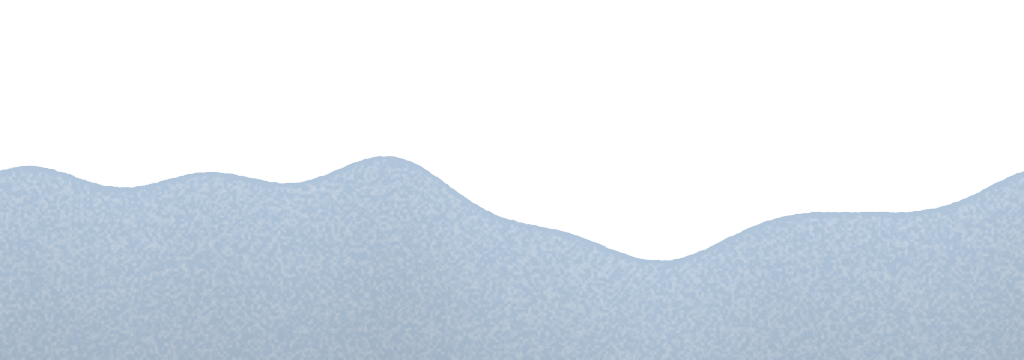
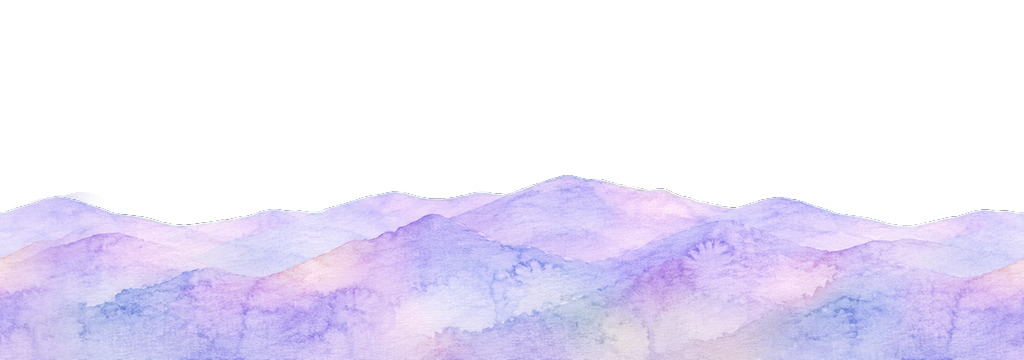
Art : 15 aquarelles peintes avec Codex (titre, intro, 2 fins, 4 ciels, 7 plans de parallaxe) (#3)
* Art : prompts Codex pour Kevencre (titre, intro, 2 fins, 4 ciels, 7 fonds en parallaxe)

Claude-Session: https://claude.ai/code/session_01QVrBbsfBKTT9dMwLx2aVGe

* Art : 15 visuels peints avec Codex (titre, intro, 2 fins, 4 ciels, 7 plans de parallaxe)

finir.py : détourage sans liseré rose (repris de Kevsmos) et détourage avant le
raccord des bords, pour que le fondu ne mélange pas le magenta au décor.

* Art : écrans et ciels Codex compressés à l'export, paint.py ne les écrase plus

Claude-Session: https://claude.ai/code/session_01QVrBbsfBKTT9dMwLx2aVGe

* Art : détourage final, sans liseré rose ni contour sombre (images détourées uniquement)

---------

diff --git a/tools/art/finir.py b/tools/art/finir.py
@@ -1,0 +1,129 @@
+#!/usr/bin/env python3
+"""Finit les images brutes de Codex.
+Usage : python finir.py PROMPTS_JSON DOSSIER_BRUT DOSSIER_SORTIE [fichier ...]
+- recadre (centre, cover) puis redimensionne à la taille exacte demandée ;
+- si detourer : fond magenta #FF00FF -> transparent (tolérance + bord adouci + suppression du halo rose) ;
+- si raccord: N (dans le JSON) ou RACCORD="nom:N" (environnement), fond les N px des bords gauche/droite (panoramas en boucle) ;
+- enregistre <fichier>.webp qualité 85, ou au chemin « sortie » du JSON (.png accepté, sous-dossiers créés).
+"""
+import json, sys
+from pathlib import Path
+import numpy as np
+from PIL import Image, ImageDraw, ImageFilter
+
+import os
+# RACCORD="ciel_a:128,ciel_b:128" : fond les bords gauche/droite de ces images
+RACCORD = dict((k, int(v)) for k, v in (e.split(":") for e in os.environ.get("RACCORD", "").split(",") if e))
+TOL_DUR, TOL_DOUX = 45.0, 95.0  # distance RGB au magenta : <dur = transparent, >doux = opaque
+
+def cover(img, w, h):
+    """Recadre sans déformer. Panoramas (largeur >= 3x hauteur) : on garde le bas (ligne d'horizon)."""
+    sw, sh = img.size
+    r = max(w / sw, h / sh)
+    img = img.resize((round(sw * r), round(sh * r)), Image.LANCZOS)
+    l = (img.width - w) // 2
+    t = img.height - h if w >= 3 * h else (img.height - h) // 2
+    return img.crop((l, t, l + w, t + h))
+
+def detourer(img):
+    a = np.asarray(img.convert("RGB")).astype(np.float32)
+    r, g, b = a[..., 0], a[..., 1], a[..., 2]
+    # distance au magenta pur
+    d = np.sqrt((255 - r) ** 2 + g ** 2 + (255 - b) ** 2)
+    alpha = np.clip((d - TOL_DUR) / (TOL_DOUX - TOL_DUR), 0, 1)
+    # ne détoure que le magenta relié au bord : un sujet rose/magenta au centre reste opaque
+    proche = Image.fromarray(((d < TOL_DUR) * 255).astype(np.uint8))
+    hh, ww = d.shape
+    for x, y in [(x, 0) for x in range(0, ww, 8)] + [(x, hh - 1) for x in range(0, ww, 8)] + \
+                [(0, y) for y in range(0, hh, 8)] + [(ww - 1, y) for y in range(0, hh, 8)]:
+        if proche.getpixel((x, y)) == 255: ImageDraw.floodfill(proche, (x, y), 128)
+    # + les poches de magenta quasi pur enfermées dans le sujet (entre deux pièces, sous un bras…)
+    proche = Image.fromarray(np.where((np.asarray(proche) == 128) | (d < 25), 128, 0).astype(np.uint8))
+    fond = np.asarray(proche.point(lambda v: 255 if v == 128 else 0).filter(ImageFilter.MaxFilter(3))) > 0
+    alpha = np.where(fond, alpha, 1.0)
+    # adoucissement léger du bord
+    am = Image.fromarray((alpha * 255).astype(np.uint8)).filter(ImageFilter.GaussianBlur(0.8))
+    alpha = np.asarray(am).astype(np.float32) / 255
+    alpha[d < TOL_DUR * 0.8] = 0
+    # dé-contamination : retire la part de magenta mélangée dans les pixels de bord
+    mag = np.array([255, 0, 255], np.float32)
+    bord = (alpha > 0) & (alpha < 1)
+    with np.errstate(divide="ignore", invalid="ignore"):
+        rec = (a - (1 - alpha[..., None]) * mag) / np.maximum(alpha[..., None], 1e-3)
+    a = np.where(bord[..., None], np.clip(rec, 0, 255), a)
+    # anti-halo : près du fond (2 px), retire la teinte magenta résiduelle (r et b au-dessus de g)
+    pres = np.asarray(Image.fromarray((fond * 255).astype(np.uint8)).filter(ImageFilter.MaxFilter(5))) > 0
+    zone = pres & (alpha > 0)
+    spill = np.minimum(a[..., 0], a[..., 2]) - a[..., 1]
+    lim = zone & (spill > 10)
+    a[..., 0] = np.where(lim, a[..., 0] - (spill - 10), a[..., 0])
+    a[..., 2] = np.where(lim, a[..., 2] - (spill - 10), a[..., 2])
+    # bouche les petits trous (pixels du sujet presque magenta) : fermeture 3x3 du masque,
+    # et les pixels rebouchés prennent la couleur médiane de leurs voisins opaques
+    m = Image.fromarray((alpha * 255).astype(np.uint8))
+    ferme = np.asarray(m.filter(ImageFilter.MaxFilter(3)).filter(ImageFilter.MinFilter(3))).astype(np.float32) / 255
+    trou = ferme > alpha + 0.5
+    if trou.any():
+        opaque = np.where((alpha > 0.9)[..., None], a, 0).astype(np.uint8)
+        med = np.asarray(Image.fromarray(opaque).filter(ImageFilter.MaxFilter(3))).astype(np.float32)
+        a[trou] = med[trou]
+        alpha = np.maximum(alpha, ferme)
+    # dernière passe : à moins de 3 px de la transparence, un pixel resté presque magenta est du fond
+    d2 = np.sqrt((255 - a[..., 0]) ** 2 + a[..., 1] ** 2 + (255 - a[..., 2]) ** 2)
+    transp = Image.fromarray(((alpha < 0.5) * 255).astype(np.uint8)).filter(ImageFilter.MaxFilter(7))
+    alpha = np.where((np.asarray(transp) > 0) & (d2 < 80) & (np.abs(a[..., 0] - a[..., 2]) < 30), 0.0, alpha)
+    # puis, sur 2 px de bord, les mélanges sujet + magenta (r ≈ b, tous deux nettement au-dessus de g)
+    # deviennent transparents : les griser laisserait un contour sombre sur fond clair
+    bande = (np.asarray(Image.fromarray(((alpha < 0.5) * 255).astype(np.uint8)).filter(ImageFilter.MaxFilter(5))) > 0) & (alpha >= 0.5)
+    sp = np.minimum(a[..., 0], a[..., 2]) - a[..., 1]
+    mel = bande & (np.abs(a[..., 0] - a[..., 2]) < 30) & (sp > 25)
+    alpha = np.where(mel, 0.0, alpha)
+    # sous les pixels transparents, remplace le magenta par la couleur du sujet voisin :
+    # sinon le sous-échantillonnage des couleurs du WebP fait baver un liseré rose sur le bord
+    poids = (alpha > 0.5).astype(np.float32)
+    def flou(x, r):  # flou boîte séparable (numpy), rayon r
+        for ax in (0, 1):
+            p_ = np.pad(x, [(r + 1, r) if i == ax else (0, 0) for i in range(2)], mode="edge")
+            c = np.cumsum(p_, axis=ax)
+            x = (np.take(c, range(2 * r + 1, c.shape[ax]), axis=ax) - np.take(c, range(0, c.shape[ax] - 2 * r - 1), axis=ax)) / (2 * r + 1)
+        return x
+    for r in (2, 6, 18):
+        wsum = flou(poids, r)
+        if (wsum > 1e-4).any():
+            for c in range(3):
+                col = flou(a[..., c] * poids, r) / np.maximum(wsum, 1e-4)
+                a[..., c] = np.where((alpha <= 0.5) & (wsum > 1e-4) & (poids == 0), col, a[..., c])
+            poids = np.maximum(poids, (wsum > 1e-4).astype(np.float32) * (alpha <= 0.5))
+    out = np.dstack([np.clip(a, 0, 255), alpha * 255]).astype(np.uint8)
+    return Image.fromarray(out)
+
+def raccorder(img, bande):
+    """Rend une image raccordable gauche/droite : les `bande` px de droite sont fondus dans
+    ceux de gauche puis retirés ; l'image est ensuite ramenée à sa largeur d'origine."""
+    a = np.asarray(img).astype(np.float32); h, w = a.shape[:2]
+    t = np.linspace(0, 1, bande)[None, :, None]
+    out = a[:, : w - bande].copy()
+    out[:, :bande] = a[:, w - bande:] * (1 - t) + a[:, :bande] * t
+    return Image.fromarray(np.clip(out, 0, 255).astype(np.uint8)).resize((w, h), Image.LANCZOS)
+
+def main():
+    js, brut, sortie, *noms = sys.argv[1:]
+    d = json.load(open(js)); Path(sortie).mkdir(parents=True, exist_ok=True)
+    for im in d["images"]:
+        if noms and im["fichier"] not in noms: continue
+        src = Path(brut) / f"{im['fichier']}.png"
+        if not src.exists(): print("absent", src); continue
+        w, h = map(int, im["taille"].split("x"))
+        img = cover(Image.open(src).convert("RGB"), w, h)
+        # détourer d'abord : fondre les bords avant mélangerait le magenta au sujet
+        if im.get("detourer"): img = detourer(img)
+        bande = im.get("raccord") or RACCORD.get(im["fichier"])
+        if bande: img = raccorder(img, int(bande))
+        dst = Path(sortie) / im.get("sortie", f"{im['fichier']}.webp")
+        dst.parent.mkdir(parents=True, exist_ok=True)
+        if dst.suffix == ".png": img.save(dst, "PNG", optimize=True)
+        else: img.save(dst, "WEBP", quality=85, method=6)
+        print(f"{dst.name} {w}x{h} {dst.stat().st_size // 1024} Ko")
+
+if __name__ == "__main__":
+    main()

diff --git a/tools/paint.py b/tools/paint.py
@@ -10,6 +10,21 @@ S = 24            # pixels par case dans les peintures (affichées x2 dans le je
 rng = np.random.default_rng(11)
 
 
+# Images peintes avec Codex (tools/art/prompts.json, clé « sortie ») : on ne les écrase pas.
+def _codex():
+    try:
+        with open(os.path.join(os.path.dirname(os.path.abspath(__file__)), 'art', 'prompts.json')) as f:
+            return {os.path.normpath(os.path.join(ART, i['sortie'])) for i in json.load(f)['images'] if 'sortie' in i}
+    except (OSError, ValueError, KeyError):
+        return set()
+CODEX = _codex()
+
+
+def keep(path):
+    """Vrai si ce fichier est un visuel Codex déjà présent (à ne pas repeindre)."""
+    return os.path.normpath(path) in CODEX and os.path.exists(path)
+
+
 # ------------------------------------------------------------------ outils
 def box(a, r, axis):
     if r < 1:
@@ -468,6 +483,8 @@ HAZE = [None]
 def save_layer(canvas, alpha, path, haze=0.0):
     if haze > 0 and HAZE[0] is not None:
         canvas = canvas * (1 - haze) + HAZE[0][None, None, :] * haze
+    if keep(path):
+        return
     to_img(canvas, alpha).save(path, optimize=True)
 
 
@@ -673,7 +690,7 @@ def illustrations():
         line = [(940 + i * 9, y0 - i * 7 + math.sin(i * 0.5) * 6) for i in range(40)]
         d.line(line, fill=c + (190,), width=7, joint='curve')
     im = im.filter(ImageFilter.GaussianBlur(0.6))
-    im.save(os.path.join(ART, 'titre.png'), optimize=True)
+    if not keep(os.path.join(ART, 'titre.png')): im.save(os.path.join(ART, 'titre.png'), optimize=True)
     # intro : l'atelier du peintre endormi (silhouettes)
     c = new_canvas(h, w, (0.93, 0.9, 0.84))
     win = np.zeros((h, w), np.float32); win[120:430, 760:1080] = 1
@@ -688,12 +705,12 @@ def illustrations():
         wash(c, bl, hexc(col), 0.6, 0.6, 0.3, 1)
     chair = ellipse_mask(h, w, [(900, 560, 140, 80), (870, 470, 70, 60)])
     wash(c, chair, hexc('#7d7a8a'), 0.6, 0.6, 0.3, 2)
-    to_img(c).save(os.path.join(ART, 'intro.png'), optimize=True)
+    if not keep(os.path.join(ART, 'intro.png')): to_img(c).save(os.path.join(ART, 'intro.png'), optimize=True)
     # fins
-    to_img(landscape(w, h, 0.0, seed=8)).save(os.path.join(ART, 'fin.png'), optimize=True)
+    if not keep(os.path.join(ART, 'fin.png')): to_img(landscape(w, h, 0.0, seed=8)).save(os.path.join(ART, 'fin.png'), optimize=True)
     f = landscape(w, h, 0.0, seed=9, sunrise=True)
     drop_shape(f, 640, 600, 30, '#2b2a4a')
-    to_img(f).save(os.path.join(ART, 'fin_vraie.png'), optimize=True)
+    if not keep(os.path.join(ART, 'fin_vraie.png')): to_img(f).save(os.path.join(ART, 'fin_vraie.png'), optimize=True)
     print('illustrations peintes')
 
 

diff --git a/README.md b/README.md
@@ -51,7 +51,7 @@ On compte aussi les gouttes d'encre ramassées, le temps et les chutes.
 ## Organisation du projet
 - `scripts/` : le jeu (Player = Sépia, Stroke = Trait d'encre, Level, Boss, Hud, Title…), `scripts/ent/` : objets et ennemis.
 - `levels/` : les 3 niveaux sous forme de grilles de caractères (générées par `tools/build_levels.py`).
-- `art/` : toutes les peintures (terrain, fonds en parallaxe, écran titre, fins), générées par `tools/paint.py` à partir des niveaux.
+- `art/` : les peintures. Le terrain est peint par `tools/paint.py` à partir des niveaux ; l'écran titre, l'intro, les deux fins, les 4 ciels et les fonds en parallaxe ont été peints avec Codex (prompts dans `tools/art/prompts.json`, finition par `tools/art/finir.py`). `tools/paint.py` ne réécrit pas ces visuels Codex.
 - `audio/` : 6 musiques et 28 bruitages synthétisés par `tools/audio_synth.py`.
 - `shaders/couleur.gdshader` : l'effet « monde délavé / couleur qui revient ».
 - `tools/AutoTest.gd` : test qui joue le jeu tout seul et prend des captures (`godot --path . -- --shots=/chemin`) ; `tools/Metrics.gd` mesure les sauts (`-- --metrics`).
